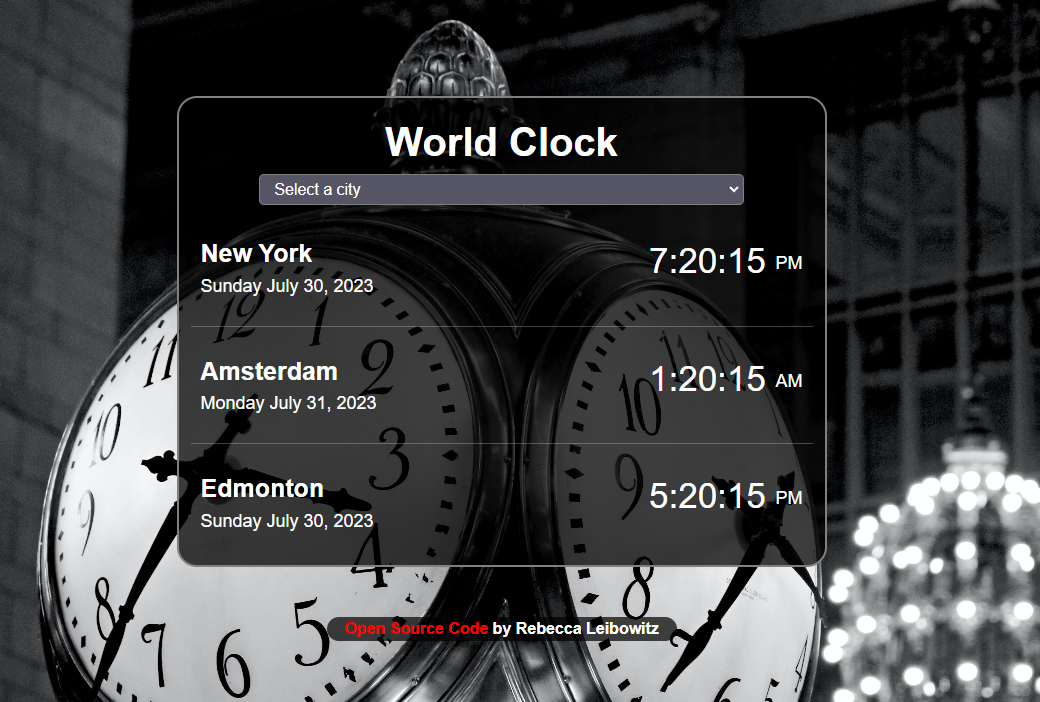
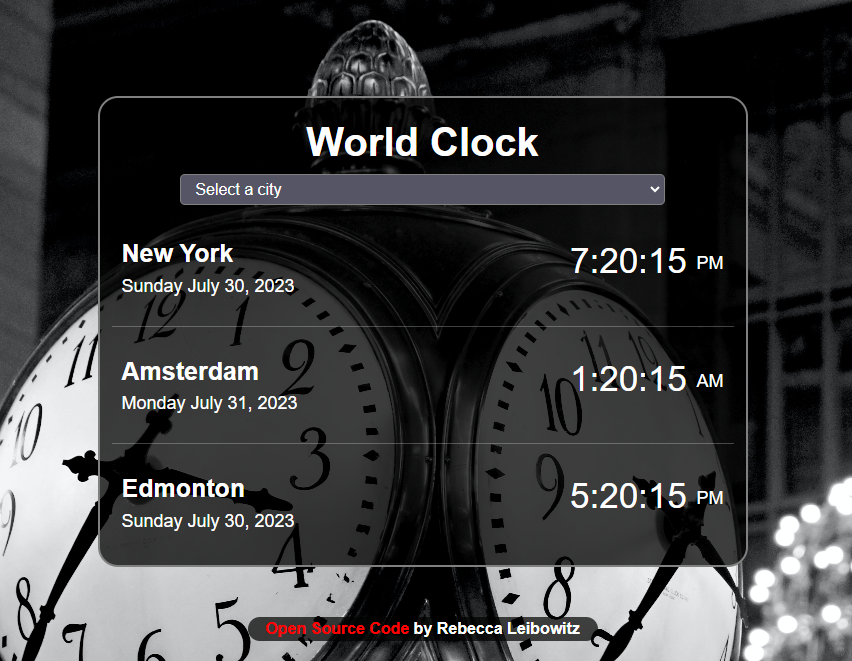
cropped images, added header to portfolio

diff --git a/portfolio.html b/portfolio.html
@@ -50,7 +50,13 @@
         </div>
     </nav>
     <div class="container">
-        <div class="row">
+        <header class="text-center">
+            <hr>
+            <h1>Portfolio</h1>
+            <p>All finished projects are shown below in order of creation date. More to come.</p>
+            <hr>
+        </header>
+        <div class="row m-3 first-project">
             <div class="col">
                 <h2>UFO Site</h2>
                 <p>Lorem ipsum dolor sit amet, consectetur adipisicing elit. Numquam
@@ -65,7 +71,7 @@
                 </div>
             </div>
         </div>
-        <div class="row">
+        <div class="row m-3 pt-3">
             <div class="col d-none d-lg-block">
                 <img src="images/drawing-project.png" class="img-fluid" alt="art gallery site">
             </div>
@@ -79,7 +85,7 @@
                 <a href="https://cheery-toffee-8da535.netlify.app" class="launch-link">Launch Project</a>
             </div>
         </div>
-        <div class="row">
+        <div class="row m-3 pt-3">
             <div class="col">
                 <h2>Weather App</h2>
                 <p>Lorem ipsum dolor sit amet, consectetur adipisicing elit. Numquam
@@ -94,7 +100,7 @@
                 </div>
             </div>
         </div>
-        <div class="row">
+        <div class="row m-3 pt-3">
             <div class="col d-none d-lg-block">
                 <img src="images/clock-project.png" class="img-fluid" alt="world clock app">
             </div>
@@ -108,6 +114,7 @@
                 <a href="https://ubiquitous-cascaron-6ffe4c.netlify.app" class="launch-link">Launch Project</a>
             </div>
         </div>
+    </div>
     <div class="bottom-bar bg-dark border-bottom border-body">
         <div class="social-icon-links text-center pt-2">
             <a href="https://github.com/BEX-0">

diff --git a/index.html b/index.html
@@ -50,16 +50,16 @@
         </div>
     </nav>
     <div class="container">
-        <div class="header">
+        <header>
             <h3>Hello, my name is</h3>
             <h1>Rebecca Leibowitz</h1>
             <h3>I'm an aspiring <strong>Front-End Developer</strong></h3>
-        </div>
-        <div class="navigation-links mt-5">
-            <a href="about.html" class="m-2">Learn More</a>
-            <a href="#" class="m-2">Contact Me</a>
-        </div>
-        <hr>
+            <div class="navigation-links mt-5">
+                <a href="about.html" class="m-2">Learn More</a>
+                <a href="#" class="m-2">Contact Me</a>
+            </div>
+        <header>
+        <hr class="mb-5">
     </div>
     <div class="bottom-bar bg-dark border-bottom border-body">
         <div class="social-icon-links text-center pt-2">

diff --git a/src/style.css b/src/style.css
@@ -20,6 +20,10 @@ a {
     font-size: 20px;
 }
 
+.first-project {
+    padding-top: 150px;
+}
+
 footer {
     font-size: 15px;
 }
@@ -59,12 +63,8 @@ h3 strong {
     color: var(--main-red);
 }
 
-.header {
-    padding-top: 150px;
-}
-
-hr {
-    margin: 100px 0px;
+header {
+    padding: 150px 0px;
 }
 
 img {
